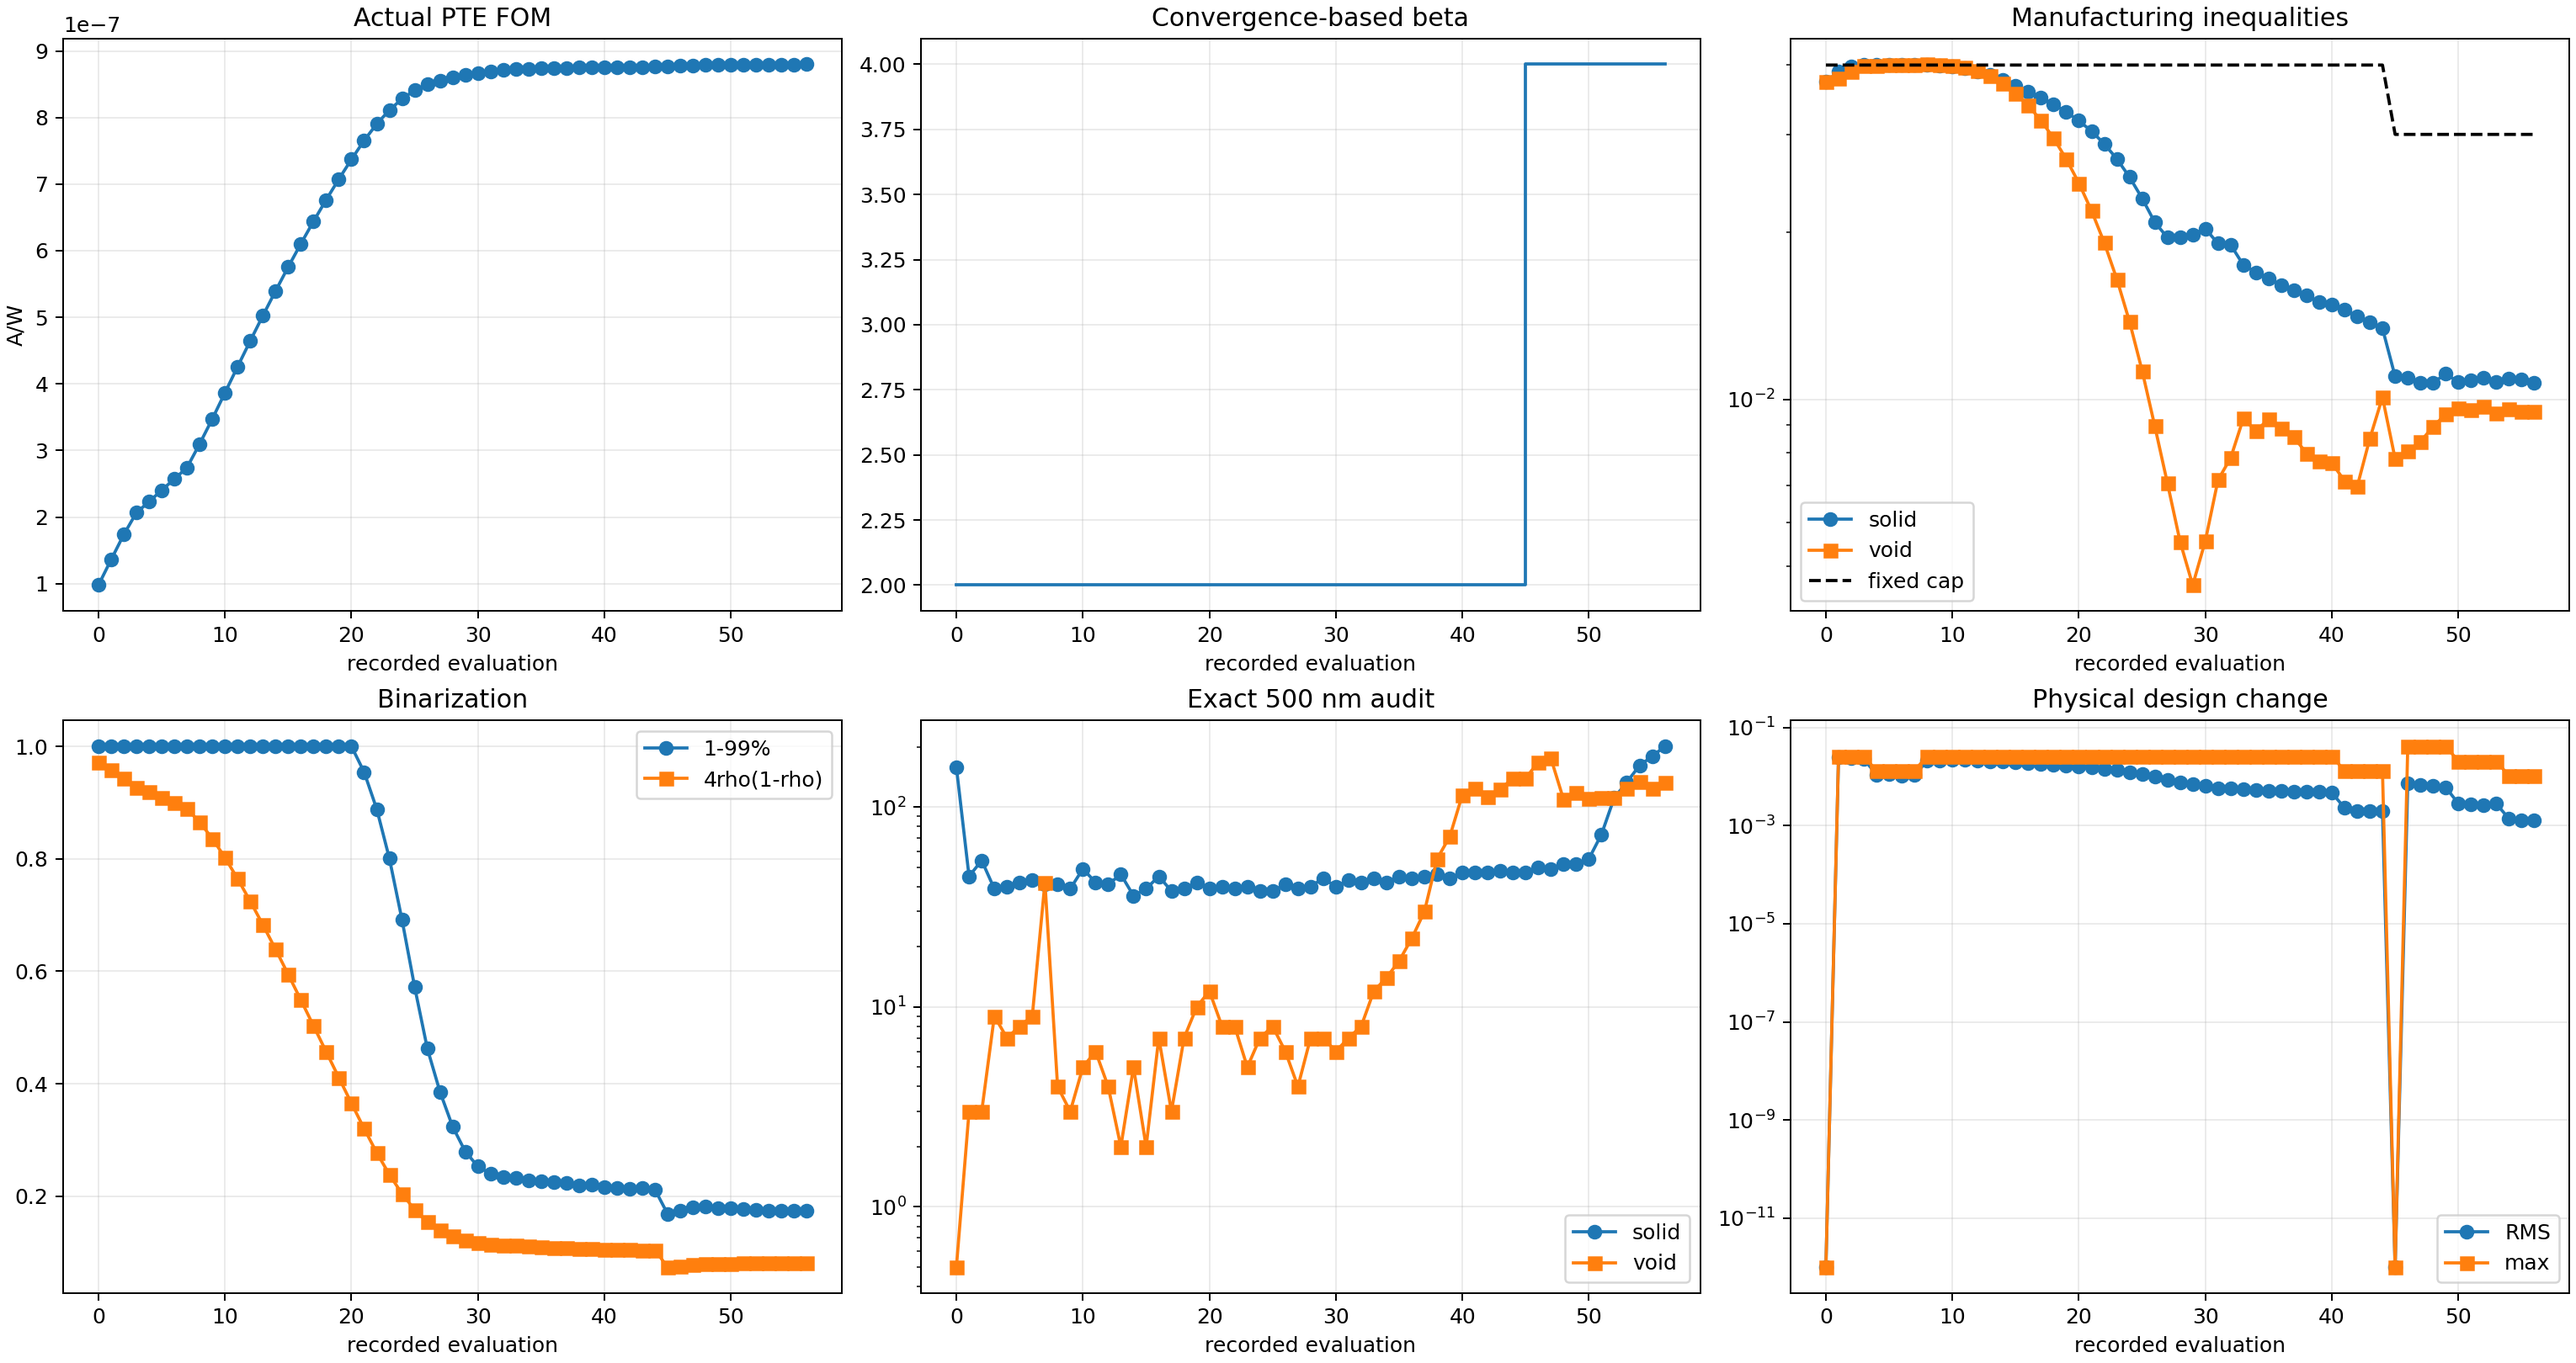
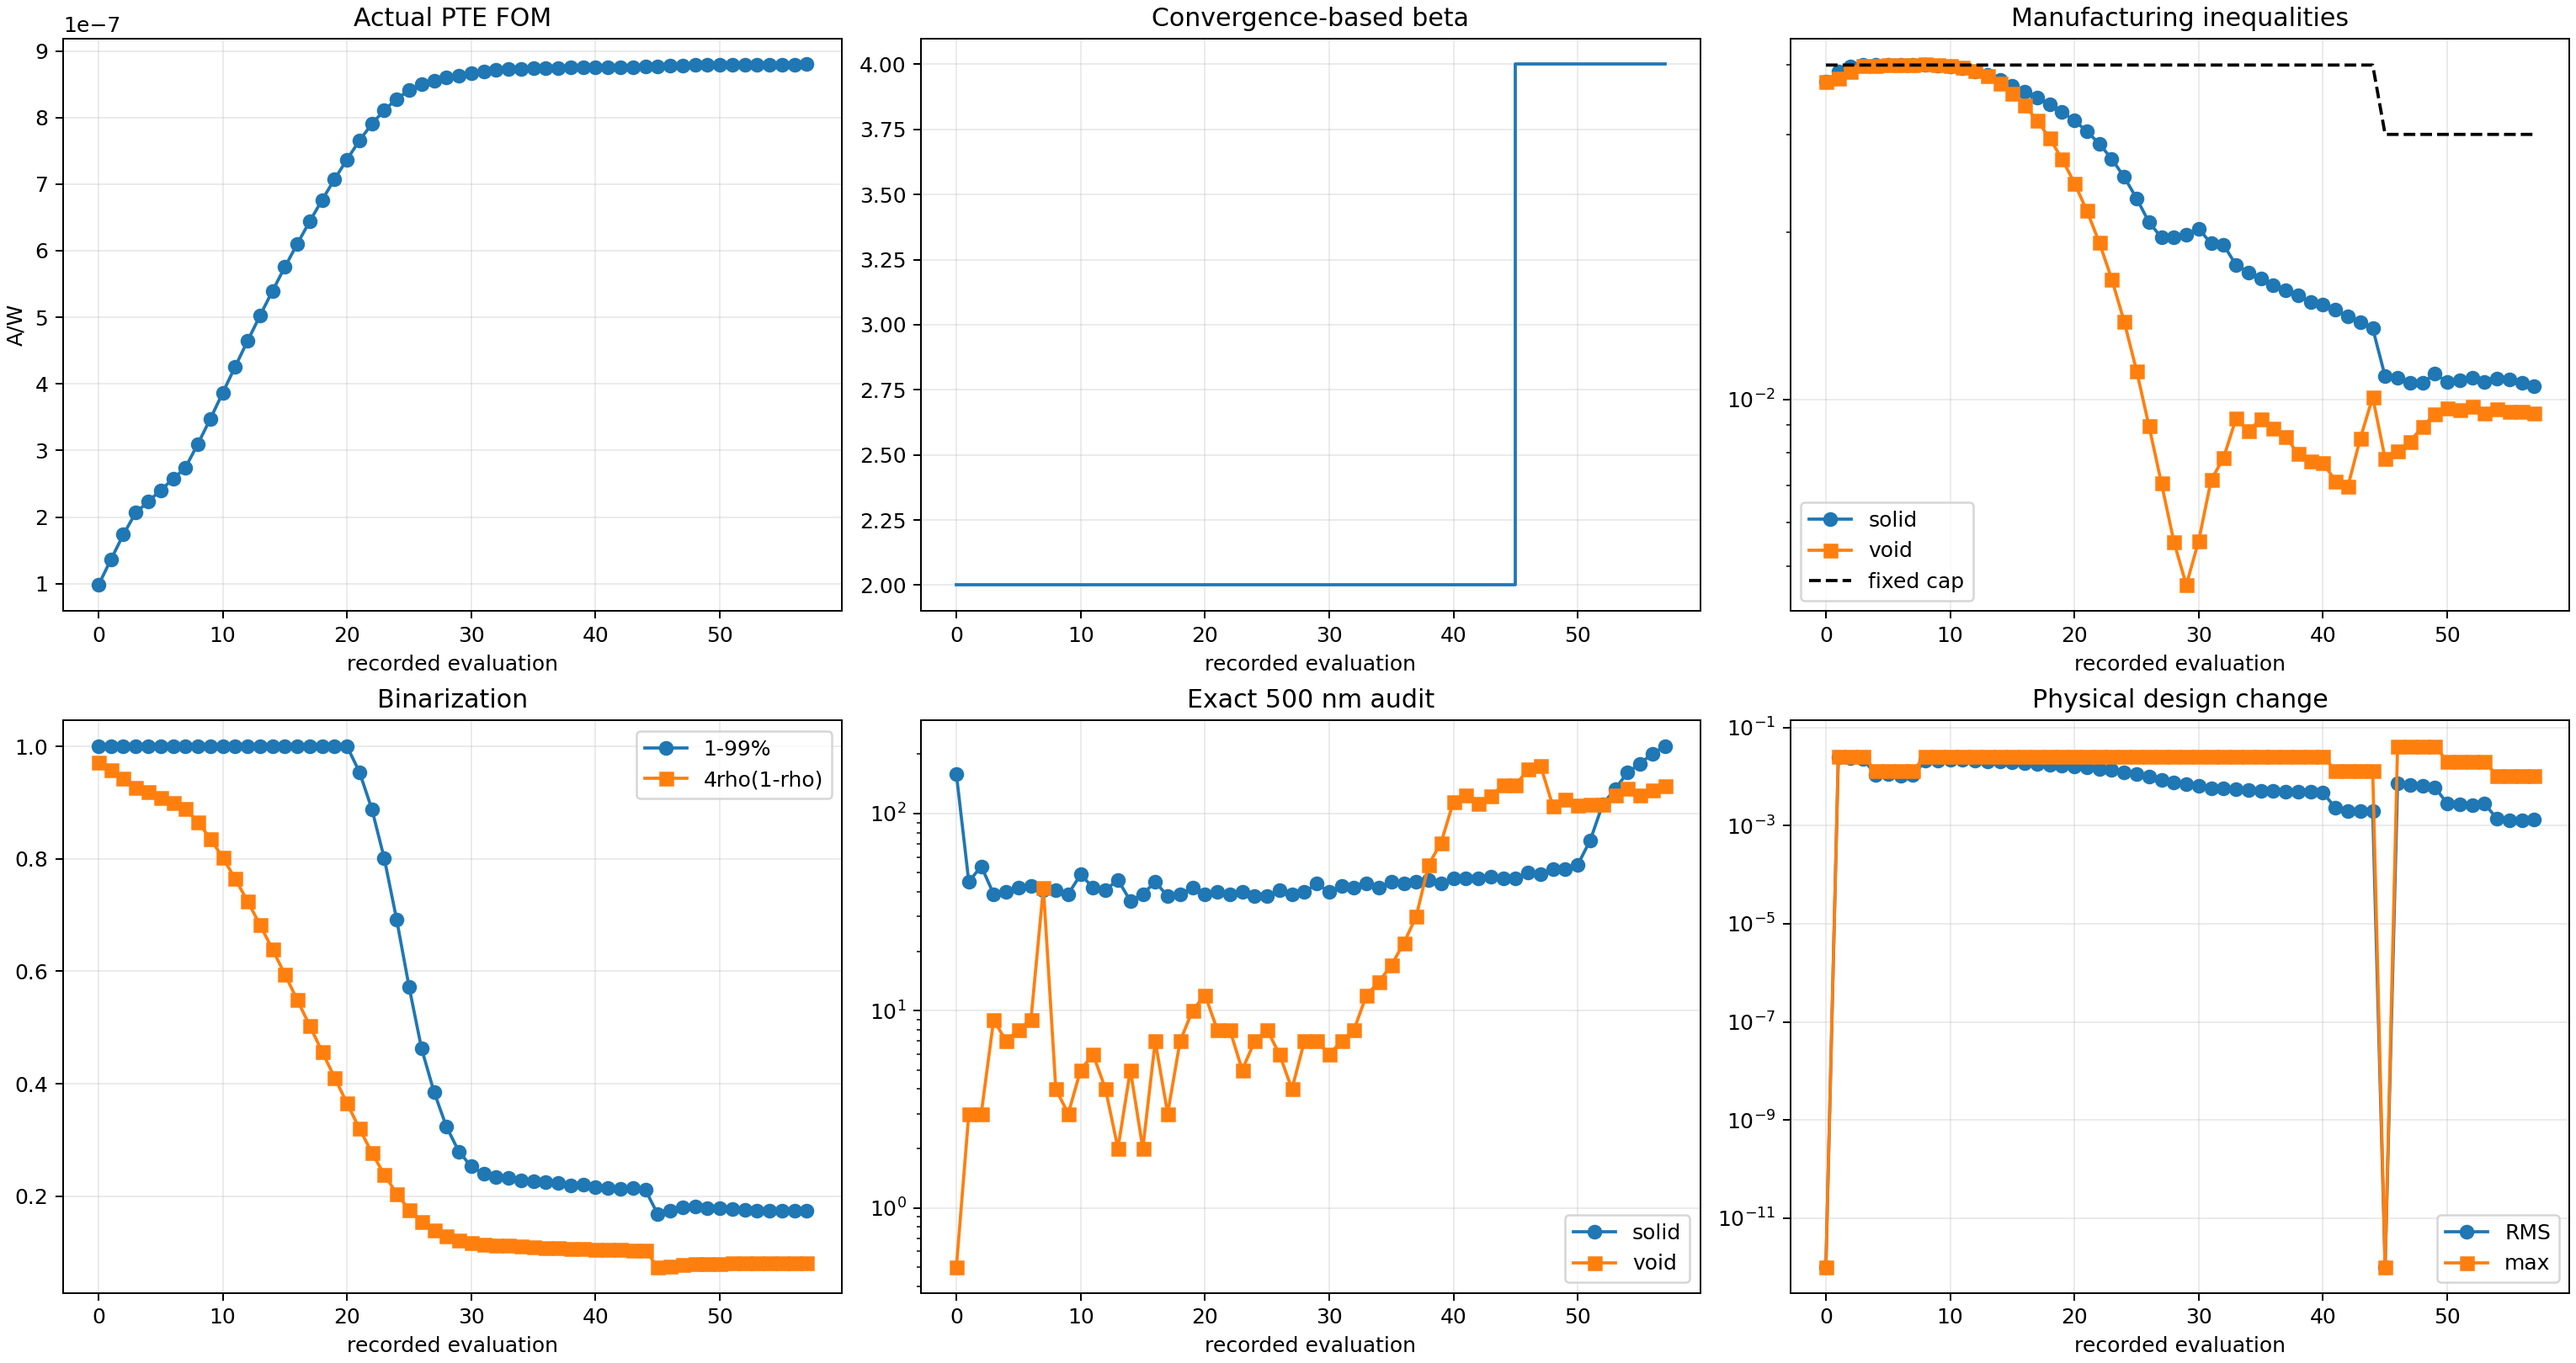
Record Run 003 run003_b004_s012_g056_accepted_mma

diff --git a/photothermal_pte/optimization_runs/run_003_gaussian10_w8p5_current_max_converged/results/OPTIMIZATION_REPORT.md b/photothermal_pte/optimization_runs/run_003_gaussian10_w8p5_current_max_converged/results/OPTIMIZATION_REPORT.md
@@ -2,10 +2,10 @@
 
 Status: `RUNNING_CONVERGENCE_BASED_CONSTRAINED_BETA_CONTINUATION`
 
-Current stage: beta=4, accepted stage iteration=11, global iteration=55.
+Current stage: beta=4, accepted stage iteration=12, global iteration=56.
 
-Actual FOM: `8.798809704753e-07 A/W`. Fixed-cap solid/void constraints: `1.071036e-02` / `9.516220e-03` with cap `3.000000e-02`.
+Actual FOM: `8.799517351576e-07 A/W`. Fixed-cap solid/void constraints: `1.056800e-02` / `9.434536e-03` with cap `3.000000e-02`.
 
-Exact 500 nm bad cells: solid `201`, void `132`. Stage convergence: `False` (recent FOM/density changes have not plateaued).
+Exact 500 nm bad cells: solid `219`, void `138`. Stage convergence: `True` (all four-update FOM/density plateau gates pass).
 
 Beta is promoted only after fixed-inequality feasibility and a four-update FOM/design plateau; it is never promoted after one nominal update.
